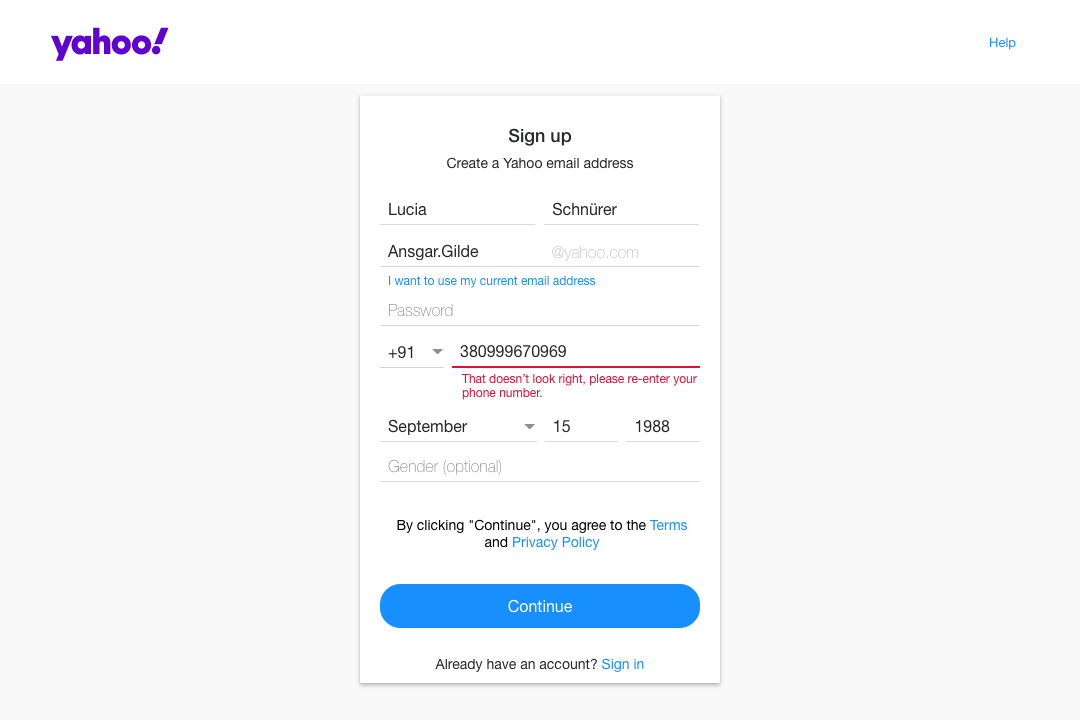
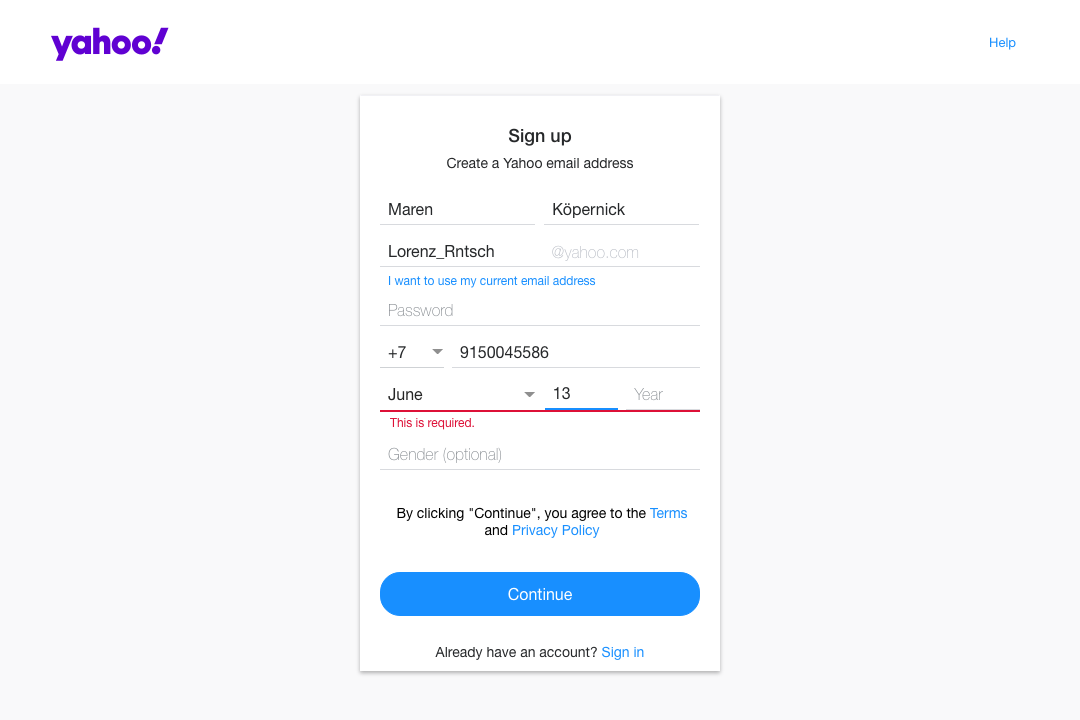
sms api

diff --git a/models/YahooMail.js b/models/YahooMail.js
@@ -1,8 +1,10 @@
 const puppeteer = require('puppeteer');
 const { response } = require('express');
-var faker = require('faker/locale/de');
+var faker = require('faker');
 const SMSActivate = require('sms-activate')
 const sms = new SMSActivate('940054f3775c2e49f71fd64c4c3ef116')
+var randomUseragent = require('random-useragent');
+
 
 module.exports = class YahooMail {
     constructor() {
@@ -19,6 +21,12 @@ module.exports = class YahooMail {
             deviceScaleFactor: 1,
         });
         await page.goto(url, { waitUntil: 'networkidle2' });
+
+        var userAgent = await randomUseragent.getRandom()
+        console.log(userAgent, 'rua')
+        await page.setUserAgent(userAgent)
+        console.log(await browser.userAgent());
+
         let phoneData = await this.getNumber();
         let phoneNumber = undefined;
         let date = await this.getDate('1-1-1960', '1-1-2000')
@@ -32,6 +40,7 @@ module.exports = class YahooMail {
             'lastName': faker.name.lastName(),
             'yid': await this.getMailID(),
             'password': faker.internet.password(),
+            'shortCountryCode':'RU',
             'phone': phoneNumber,
             'mm': date.getMonth(),
             'dd': date.getDate(),
@@ -45,13 +54,14 @@ module.exports = class YahooMail {
             'lastName',
             'yid',
             'password',
+            'shortCountryCode',
             'phone',
             'mm',
             'dd',
             'yyyy'
         ]
 
-        for (let i = 0; i < 8; i++) {
+        for (let i = 0; i < selectors.length; i++) {
             let myValue = userData[selectors[i]];
             let inputSelector = "[name='" + selectors[i] + "']";
             console.log(inputSelector)
@@ -72,11 +82,16 @@ module.exports = class YahooMail {
 
         async function checkRightMail() {
             return await page.evaluate(() => {
-                if (document.querySelector('#reg-error-yid').childElementCount > 0) {
-                    return 1;
-                } else {
+                if(document.querySelector('#reg-error-yid')){
+                    if (document.querySelector('#reg-error-yid').childElementCount > 0) {
+                        return 1;
+                    } else {
+                        return 0;
+                    }
+                }else{
                     return 0;
                 }
+                
             })
         }
 
@@ -84,7 +99,7 @@ module.exports = class YahooMail {
         while (eFlag) {
             let myValue = await this.getMailID()
             await page.evaluate((myValue) => {
-                document.querySelector(['name="yid"']).value = myValue;
+                document.querySelector('[name="yid"]').value = myValue;
             }, myValue)
 
             await page.click('#reg-submit-button')
@@ -134,7 +149,9 @@ module.exports = class YahooMail {
 
         //sms.getBalance().then(async (balance) => { //https://sms-activate.ru/stubs/handler_api.php?api_key=$api_key&action=getBalance
         if (balance > 0) {
-            const { id, number } = await sms.getNumber('mb', 1) // yandex https://sms-activate.ru/stubs/handler_api.php?api_key=$api_key&action=getNumber&service=$service&forward=$forward&operator=$operator&ref=$ref&country=$country
+            var { id, number } = await sms.getNumber('mb', 0) // yandex https://sms-activate.ru/stubs/handler_api.php?api_key=$api_key&action=getNumber&service=$service&forward=$forward&operator=$operator&ref=$ref&country=$country
+            number = number.toString()
+            number = number.slice(1)
             var data = { balance: balance, number: number, orderId: id }
             console.log(data)
             return new Promise((resolve, reject) => {
@@ -147,7 +164,6 @@ module.exports = class YahooMail {
                 resolve(balance)
                 return {balance:balance};
             })
-            console.log('Balance is zero', balance)
         }
         //   }).catch(console.error)
     }
